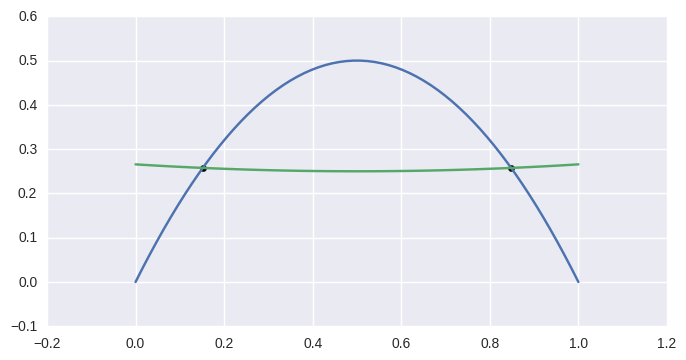
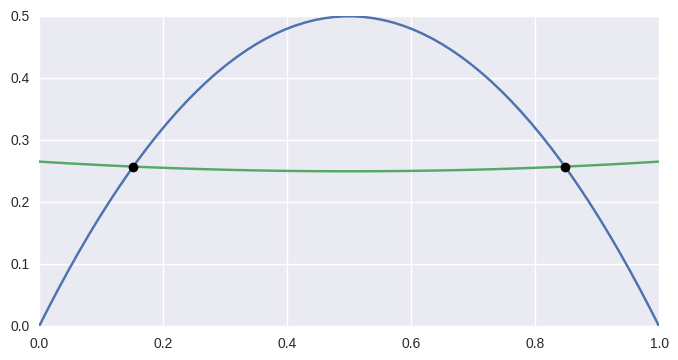
Adding basic "development" document
Also

- adding an example to readme
- updating lint env. to check the README
- using ax.plot() instead of ax.scatter() to put intersection
  points **above** (in z) the curves. Then regenerated all images

diff --git a/functional_tests/test_curve_curve.py b/functional_tests/test_curve_curve.py
@@ -244,7 +244,8 @@ def make_plots(curve1, curve2, points, ignore_save=False):
 
     ax = curve1.plot(64)
     curve2.plot(64, ax=ax)
-    ax.scatter(points[:, 0], points[:, 1], color='black')
+    ax.plot(points[:, 0], points[:, 1],
+            marker='o', linestyle='None', color='black')
     ax.axis('scaled')
     if CONFIG.save_plot:
         if not ignore_save:

diff --git a/README.rst b/README.rst
@@ -8,6 +8,76 @@
 .. |eacute| unicode:: U+000E9 .. LATIN SMALL LETTER E WITH ACUTE
    :trim:
 
+Install
+-------
+
+.. code-block:: console
+
+   $ pip install --upgrade bezier
+
+Getting Started
+---------------
+
+For example, to create a curve:
+
+.. code-block:: python
+
+   >>> nodes1 = np.array([
+   ...     [0.0, 0.0],
+   ...     [0.5, 1.0],
+   ...     [1.0, 0.0],
+   ... ])
+   >>> curve1 = bezier.Curve(nodes1)
+
+The intersection (points) between two curves can
+also be determined:
+
+.. code-block:: python
+
+   >>> nodes2 = np.array([
+   ...     [0.0, 0.0],
+   ...     [0.25, 2.0],
+   ...     [0.5, -2.0],
+   ...     [0.75, 2.0],
+   ...     [1.0, 0.0],
+   ... ])
+   >>> curve2 = bezier.Curve(nodes2)
+   >>> intersections = curve1.intersect(curve2)
+   >>> intersections
+   array([[ 0.311...,  0.428...],
+          [ 0.688...,  0.428...],
+          [ 0.      ,  0.      ],
+          [ 1.      ,  0.      ]])
+
+and then we can plot these curves (along with their
+intersections):
+
+.. code-block:: python
+
+   >>> import matplotlib.pyplot as plt
+   >>> import seaborn
+   >>>
+   >>> ax = curve1.plot(num_pts=256)
+   >>> curve2.plot(num_pts=256, ax=ax)
+   >>> ax.plot(intersections[:, 0], intersections[:, 1],
+   ...         marker='o', linestyle='None', color='black')
+   >>> ax.axis('scaled')
+   >>> ax.set_xlim(-0.125, 1.125)
+   >>> ax.set_ylim(-0.0625, 0.625)
+   >>> plt.show()
+
+.. image:: https://github.com/dhermes/bezier/blob/master/docs/images/test_curves1_and_13.png
+   :align: center
+
+Development
+-----------
+
+To work on adding a feature or to run the functional tests,
+See the `DEVELOPMENT doc`_ for more information on how to get
+started.
+
+.. _DEVELOPMENT doc: https://github.com/dhermes/bezier/blob/master/DEVELOPMENT.rst
+
 License
 -------
 

diff --git a/DEVELOPMENT.rst b/DEVELOPMENT.rst
@@ -1,0 +1,18 @@
+Development
+===========
+
+Here are some pointers for hacking on ``bezier``.
+
+Adding Features
+---------------
+
+In order to add a feature to ``bezier``:
+
+1. **File an issue** to discuss the change
+
+1. **Add tests**: The feature must work fully on the following
+   CPython versions: 2.7, 3.4 and 3.5 on both UNIX and Windows.
+   In addition, the feature should have 100% line coverage.
+
+1. The feature must (should) be documented with helpful ``doctest``
+   examples wherever relevant.
